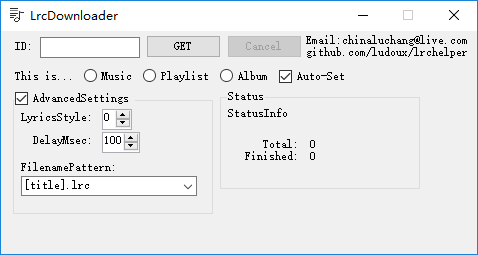
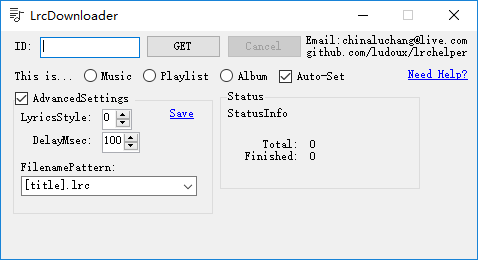
1.0.9 Released.
-Added "Save" label to save settings and use when loading.

diff --git a/LrcHelper/LrcDownloader.Designer.cs b/LrcHelper/LrcDownloader.Designer.cs
@@ -56,6 +56,7 @@
             this.AdvancedSettingscheckBox = new System.Windows.Forms.CheckBox();
             this.toolTip1 = new System.Windows.Forms.ToolTip(this.components);
             this.needhelplabel = new System.Windows.Forms.Label();
+            this.Savelabel = new System.Windows.Forms.Label();
             this.StatusgroupBox.SuspendLayout();
             this.AdvancedSettingsgroupBox.SuspendLayout();
             ((System.ComponentModel.ISupportInitialize)(this.DelayMsecnumericUpDown)).BeginInit();
@@ -223,6 +224,7 @@
             // 
             // AdvancedSettingsgroupBox
             // 
+            this.AdvancedSettingsgroupBox.Controls.Add(this.Savelabel);
             this.AdvancedSettingsgroupBox.Controls.Add(this.FilenamePatterncomboBox);
             this.AdvancedSettingsgroupBox.Controls.Add(this.FilenamePatternLabel);
             this.AdvancedSettingsgroupBox.Controls.Add(this.DelayMsecnumericUpDown);
@@ -355,6 +357,20 @@
             this.needhelplabel.Text = "Need Help?";
             this.needhelplabel.Click += new System.EventHandler(this.needhelplabel_Click);
             // 
+            // Savelabel
+            // 
+            this.Savelabel.AutoSize = true;
+            this.Savelabel.Cursor = System.Windows.Forms.Cursors.Hand;
+            this.Savelabel.Font = new System.Drawing.Font("宋体", 9F, System.Drawing.FontStyle.Underline, System.Drawing.GraphicsUnit.Point, ((byte)(134)));
+            this.Savelabel.ForeColor = System.Drawing.Color.Blue;
+            this.Savelabel.Location = new System.Drawing.Point(155, 14);
+            this.Savelabel.Name = "Savelabel";
+            this.Savelabel.Size = new System.Drawing.Size(29, 12);
+            this.Savelabel.TabIndex = 19;
+            this.Savelabel.Text = "Save";
+            this.toolTip1.SetToolTip(this.Savelabel, "Software will automatically use these saved advancedsettings when loading.");
+            this.Savelabel.Click += new System.EventHandler(this.Savelabel_Click);
+            // 
             // LrcDownloader
             // 
             this.AutoScaleDimensions = new System.Drawing.SizeF(6F, 12F);
@@ -381,6 +397,7 @@
             this.StartPosition = System.Windows.Forms.FormStartPosition.CenterScreen;
             this.Text = "LrcDownloader";
             this.Activated += new System.EventHandler(this.LrcDownloader_Activated);
+            this.Load += new System.EventHandler(this.LrcDownloader_Load);
             this.StatusgroupBox.ResumeLayout(false);
             this.StatusgroupBox.PerformLayout();
             this.AdvancedSettingsgroupBox.ResumeLayout(false);
@@ -420,5 +437,6 @@
         private System.Windows.Forms.ComboBox FilenamePatterncomboBox;
         private System.Windows.Forms.Label FilenamePatternLabel;
         private System.Windows.Forms.Label needhelplabel;
+        private System.Windows.Forms.Label Savelabel;
     }
 }

diff --git a/LrcHelper/LrcDownloader.cs b/LrcHelper/LrcDownloader.cs
@@ -8,6 +8,9 @@ using Ludoux.LrcHelper.NeteaseMusic;
 using System.Diagnostics;
 using static Ludoux.LrcHelper.NeteaseMusic.ExtendedLyrics;
 using Ludoux.LrcHelper.FileWriter;
+using System.Text.RegularExpressions;
+using System.IO;
+
 namespace LrcHelper
 {
     public partial class LrcDownloader : Form
@@ -258,6 +261,33 @@ namespace LrcHelper
         private void needhelplabel_Click(object sender, EventArgs e)
         {
             Process.Start("https://github.com/Ludoux/LrcHelper/wiki");
+        }
+
+        private void Savelabel_Click(object sender, EventArgs e)
+        {
+            try
+            {
+                File.WriteAllText(".\\AdvancedSettings.txt", string.Format("Version:{0}\r\nTime:{1}\r\nLyricsStyle:{2}\r\nDelayMsec:{3}\r\nFilenamePattern:{4}\r\n***DO NOT CHANGE ANY TEXT AND/OR ENCODING***\r\n***If you don't want to use these settings ever, just delete this file.***", FileVersionInfo.GetVersionInfo(Application.ExecutablePath).FileVersion, DateTime.Now.ToString(), LyricsStylenumericUpDown.Value.ToString(), DelayMsecnumericUpDown.Value.ToString(), FilenamePatterncomboBox.Text), Encoding.UTF8);
+            }
+            catch (Exception)
+            {
+                MessageBox.Show("Failed to save file.");
+                return;
+            }
+            MessageBox.Show("These AdvancedSettings will be used in following loading.");
+        }
+
+        private void LrcDownloader_Load(object sender, EventArgs e)
+        {
+            if(File.Exists(".\\AdvancedSettings.txt"))
+            {
+                string settings = File.ReadAllText(".\\AdvancedSettings.txt", Encoding.UTF8);
+                AdvancedSettingscheckBox.Checked = true;
+                LyricsStylenumericUpDown.Value = Convert.ToDecimal(Regex.Match(settings, @"(?<=LyricsStyle:)\d+?(?=\r\n)", RegexOptions.IgnoreCase).Value.ToString());
+                DelayMsecnumericUpDown.Value = Convert.ToDecimal(Regex.Match(settings, @"(?<=DelayMsec:)\d+?(?=\r\n)", RegexOptions.IgnoreCase).Value.ToString());
+                FilenamePatterncomboBox.Text = Regex.Match(settings, @"(?<=FilenamePattern:).+?(?=\r\n)", RegexOptions.IgnoreCase).Value.ToString();
+
+            }
         }
     }
 }

diff --git a/LrcHelper/Properties/AssemblyInfo.cs b/LrcHelper/Properties/AssemblyInfo.cs
@@ -34,6 +34,6 @@ using System.Runtime.InteropServices;
 // 方法是按如下所示使用“*”: :
 // [assembly: AssemblyVersion("1.0.*")]
 [assembly: AssemblyVersion("1.0.0.0")]
-[assembly: AssemblyFileVersion("1.0.8.0")]
+[assembly: AssemblyFileVersion("1.0.9.0")]
 [assembly: NeutralResourcesLanguage("en-001")]
 

diff --git a/README.md b/README.md
@@ -1,6 +1,6 @@
 学习目的~~~///(^v^)\\\~~~
 
-访问 [Release 页面](https://github.com/Ludoux/LRCHelper/releases) 来获得最新的发布版本。
+访问 [releases 页面](https://github.com/Ludoux/LRCHelper/releases) 来获得最新的发布版本。
 
 -----
 
@@ -17,13 +17,13 @@
 
 ![LrcDownloader](https://raw.githubusercontent.com/Ludoux/LrcHelper/master/Pic/LrcDownloader.png)
 
-## 具体操作方法
+## 基本操作方法
 
 浏览 [wiki](https://github.com/Ludoux/LrcHelper/wiki) 页面了解更多
 
-`AUTO-SET`开启时，复制链接（网页端见地址栏，桌面应用点分享-复制链接）后将软件切入前台，软件将自动填充信息。或者自行填充 ID 并选择对应的类型。
+`AUTO-SET`开启时，复制链接（网页端见地址栏，桌面应用轻敲分享-复制链接）后将软件切入前台，软件将自动填充信息。当然也可以自行填充 ID 并选择对应的类型。
 
-如有需要可以勾选高级设置（AdvancedSettings）来启用更多功能。
+如有需要可以勾选高级设置（AdvancedSettings）来启用更多功能（请浏览 wiki）。
 
 然后点击按钮“GET”。
 
@@ -50,14 +50,15 @@
 
 在 MIT 协议下发布。
 
-## 参考&感谢:
+## 参考&感谢
 
-获取外文歌词的代码基于 ituff 的 [163lyric项目](https://github.com/ituff/163lyric) 的实现，进行了修改。（但是 ituff 并没有指定那个项目的开源协议）
+获取外文歌词的代码基于 ituff 的 [163lyric项目](https://github.com/ituff/163lyric) 的实现思路，进行了修改。（但是 ituff 并没有指定那个项目的开源协议）
 
 感谢 Moonlib.com 的所有人 Moon 在这个博客上发表了 [自己整理的API](http://moonlib.com/606.html) 。
 
 ## 更新信息（最近在上）
 
+* 2017.8.22 增加 “Save” 以保存高级设置。（v1.0.9 #Release）
 * 2017.8.18 微小的优化；增加 “Need Help?” 导向 wiki 页面。
 * 2017.8.14 移除了 Newtonsoft.json；修正了对非法字符的处理逻辑。
 * 2017.8.8  允许多个 tag 值。（v1.0.8 #Release）
